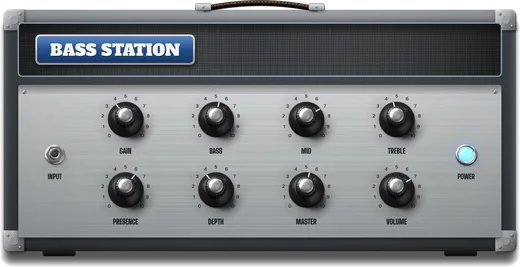
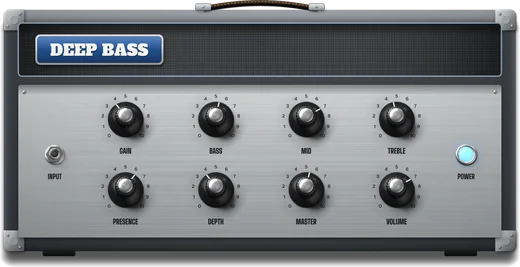
Rename Bass Station, Metal Box and Chime Top (old names still load)
Claude-Session: https://claude.ai/code/session_01S98bwYnjA36tYr2VHe11xa

Changed region(s): [[0.0923, 0.1199, 0.4, 0.2697]]

diff --git a/site/index.html b/site/index.html
@@ -167,7 +167,7 @@
       <li><img src="img/gear/drive-3.webp" width="623" height="841" loading="lazy" decoding="async" alt="Blues Crunch, overdrive pedal"><b>Blues Crunch</b></li>
       <li><img src="img/gear/drive-4.webp" width="670" height="834" loading="lazy" decoding="async" alt="Grit, distortion pedal"><b>Grit</b></li>
       <li><img src="img/gear/drive-5.webp" width="758" height="840" loading="lazy" decoding="async" alt="Big Fuzz, fuzz pedal"><b>Big Fuzz</b></li>
-      <li><img src="img/gear/drive-6.webp" width="666" height="834" loading="lazy" decoding="async" alt="Metal Box, distortion pedal"><b>Metal Box</b></li>
+      <li><img src="img/gear/drive-6.webp" width="666" height="834" loading="lazy" decoding="async" alt="Metal Dist, distortion pedal"><b>Metal Dist</b></li>
       <li><img src="img/gear/eq-0.webp" width="893" height="839" loading="lazy" decoding="async" alt="Graphic EQ, equaliser pedal"><b>Graphic EQ</b></li>
       <li><img src="img/gear/mod-0.webp" width="623" height="841" loading="lazy" decoding="async" alt="Liquid Chorus, chorus pedal"><b>Liquid Chorus</b></li>
       <li><img src="img/gear/mod-1.webp" width="619" height="840" loading="lazy" decoding="async" alt="Jet Flanger, flanger pedal"><b>Jet Flanger</b></li>
@@ -193,13 +193,13 @@
     <ul class="amp-row" data-reveal="pop">
       <li><img src="img/gear/amp-0-s.webp" width="520" height="209" loading="lazy" decoding="async" alt="Glass Clean amp"><b>Glass Clean</b></li>
       <li><img src="img/gear/amp-1-s.webp" width="520" height="315" loading="lazy" decoding="async" alt="Tweed Edge amp"><b>Tweed Edge</b></li>
-      <li><img src="img/gear/amp-2-s.webp" width="520" height="222" loading="lazy" decoding="async" alt="Chime Top amp"><b>Chime Top</b></li>
+      <li><img src="img/gear/amp-2-s.webp" width="520" height="222" loading="lazy" decoding="async" alt="Chime Bright amp"><b>Chime Bright</b></li>
       <li><img src="img/gear/amp-3-s.webp" width="520" height="209" loading="lazy" decoding="async" alt="Brit 68 amp"><b>Brit 68</b></li>
       <li><img src="img/gear/amp-4-s.webp" width="520" height="209" loading="lazy" decoding="async" alt="Brit 81 amp"><b>Brit 81</b></li>
       <li><img src="img/gear/amp-5-s.webp" width="520" height="248" loading="lazy" decoding="async" alt="Redline Lead amp"><b>Redline Lead</b></li>
       <li><img src="img/gear/amp-6-s.webp" width="520" height="209" loading="lazy" decoding="async" alt="Modern High Gain amp"><b>Modern High Gain</b></li>
       <li><img src="img/gear/amp-7-s.webp" width="520" height="200" loading="lazy" decoding="async" alt="Tight Metal amp"><b>Tight Metal</b></li>
-      <li><img src="img/gear/amp-8-s.webp" width="520" height="267" loading="lazy" decoding="async" alt="Bass Station amp"><b>Bass Station</b></li>
+      <li><img src="img/gear/amp-8-s.webp" width="520" height="267" loading="lazy" decoding="async" alt="Deep Bass amp"><b>Deep Bass</b></li>
       <li><img src="img/gear/amp-9-s.webp" width="520" height="202" loading="lazy" decoding="async" alt="Studio Direct amp"><b>Studio Direct</b></li>
       <li><img src="img/gear/amp-10-s.webp" width="520" height="202" loading="lazy" decoding="async" alt="Neural Capture amp"><b>Neural Capture</b></li>
       <li class="rail-own"><b>Twelve cabinets</b><p>Each with a microphone you can move across the cone.</p></li>

diff --git a/site/roadmap.html b/site/roadmap.html
@@ -71,7 +71,7 @@
       <li><h3>Four new 4x12 cabinets</h3><p>Recorded from real ones. Twelve in all.</p></li>
       <li><h3>A gate that sets itself</h3><p>Auto closes just above your hiss.</p></li>
       <li><h3>The gate, saved per tone</h3><p>Off in one tone, on in the next.</p></li>
-      <li><h3>Brighter cleans</h3><p>Glass Clean and Chime Top get more top end.</p></li>
+      <li><h3>Brighter cleans</h3><p>Glass Clean and Chime Bright get more top end.</p></li>
       <li><h3>Setup on USB guitar cables</h3><p>It keeps the mode that hears your guitar best.</p></li>
       <li><h3>A Feedback button</h3><p>Tell us what sounds wrong.</p></li>
       <li><h3>Every tone level-matched</h3><p>All 197, again.</p></li>

diff --git a/tools/make_presets.py b/tools/make_presets.py
@@ -17,12 +17,12 @@ import json, os, re, sys
 HERE = os.path.dirname(os.path.abspath(__file__))
 OUT = os.path.join(HERE, "..", "presets")
 
-AMPS = ["Glass Clean", "Tweed Edge", "Chime Top", "Brit 68", "Brit 81", "Redline Lead",
-        "Modern High Gain", "Tight Metal", "Bass Station", "Studio Direct", "Neural Capture"]
+AMPS = ["Glass Clean", "Tweed Edge", "Chime Bright", "Brit 68", "Brit 81", "Redline Lead",
+        "Modern High Gain", "Tight Metal", "Deep Bass", "Studio Direct", "Neural Capture"]
 CABS = ["1x12 Open Back", "2x12 Chime", "4x12 Vintage", "4x12 Modern", "2x12 American",
         "1x8 Tiny Combo", "4x10 Bass", "1x15 Bass", "Your IR",
         "4x12 Real Classic", "4x12 Real Heavy", "4x12 Real Tight", "4x12 Real Presence"]
-DRIVES = ["Clean Boost", "Treble Boost", "Green Drive", "Blues Crunch", "Grit Dist", "Big Fuzz", "Metal Box"]
+DRIVES = ["Clean Boost", "Treble Boost", "Green Drive", "Blues Crunch", "Grit Dist", "Big Fuzz", "Metal Dist"]
 
 def A(model, gain=5, bass=5, mid=5, treble=5, presence=5, depth=5, master=5, level=0.0):
     assert model in AMPS, model
@@ -102,7 +102,7 @@ P("Bedroom Lo-Fi", "Essentials", ["Lo-Fi", "Bedroom Pop"], "Wobbly, warm and dus
 P("Ambient Wash", "Essentials", ["Ambient", "Post-Rock"], "Clean notes become clouds.",
   A("Glass Clean", 3.5, 5, 5, 5.5), C("2x12 American", 4, 3), DLY("Ping Pong", 450, "1/4 dotted", 5, 5, 3.5), REV("Shimmer", 6, 40, 6, 4.5), G(-72))
 P("Bass Basics", "Essentials", ["Bass", "Rock", "Pop"], "A solid, round bass tone that sits in a mix.",
-  A("Bass Station", 4, 6, 5, 5), C("4x10 Bass", 3, 2, 30, 9000), COMP(5, 4), NOREV(), G(-70))
+  A("Deep Bass", 4, 6, 5, 5), C("4x10 Bass", 3, 2, 30, 9000), COMP(5, 4), NOREV(), G(-70))
 P("Plain DI (No Effects)", "Essentials", ["Utility"], "Your guitar with only the noise gate and hum filter. Useful for recording a clean track to re-amp later.",
   dict(amp_on=False, cab_on=False), NOREV(), G(-70))
 
@@ -122,9 +122,9 @@ P("Country Pickin'", "Clean", ["Country"], "Twangy and compressed with a slapbac
 P("Chorus Dreams", "Clean", ["80s", "New Wave", "Pop"], "Lush 80s chorus clean.",
   A("Glass Clean", 4, 5, 4.5, 6, 5.5), C("2x12 American", 3, 2), COMP(4, 5), MOD("Chorus", 3.5, 6, 7), DLY("Digital", 380, "Off", 3, 6, 2), REV("Hall", 5, 25, 5, 2.4), G(-70), double=3)
 P("Worship Swells", "Clean", ["Worship", "Ambient"], "Dotted-eighth delay and big hall for building songs.",
-  A("Chime Top", 3.5, 5, 5, 5.5, 5), C("2x12 Chime", 3, 2), COMP(3, 6), DLY("Digital", 400, "1/8 dotted", 4.5, 6, 3.5), REV("Hall", 6, 30, 5.5, 3.2), G(-70))
+  A("Chime Bright", 3.5, 5, 5, 5.5, 5), C("2x12 Chime", 3, 2), COMP(3, 6), DLY("Digital", 400, "1/8 dotted", 4.5, 6, 3.5), REV("Hall", 6, 30, 5.5, 3.2), G(-70))
 P("Chime Jangle", "Clean", ["Jangle Pop", "Indie", "Britpop"], "Shimmery, jangly chords.",
-  A("Chime Top", 4.5, 4.5, 5, 6.5, 6), C("2x12 Chime", 2.5, 2), COMP(4, 5), REV("Room", 4, 12, 6, 2), G(-68))
+  A("Chime Bright", 4.5, 4.5, 5, 6.5, 6), C("2x12 Chime", 2.5, 2), COMP(4, 5), REV("Room", 4, 12, 6, 2), G(-68))
 P("Clean Arpeggio Space", "Clean", ["Post-Rock", "Math Rock"], "Clear and detailed with stereo delay for arpeggios.",
   A("Glass Clean", 3.5, 5, 5, 6, 5.5), C("2x12 American", 3, 2), COMP(3, 6), DLY("Ping Pong", 350, "1/8", 3.5, 6, 2.5), REV("Plate", 4, 15, 5.5, 2.3), G(-72))
 P("Tremolo Noir", "Clean", ["Blues", "Cinematic", "Indie"], "Moody pulsing tremolo through a spring.",
@@ -136,7 +136,7 @@ P("Tweed Breakup", "Crunch", ["Blues", "Classic Rock", "Americana"], "Loose, hai
 P("Classic Rock Crunch", "Crunch", ["Classic Rock", "Hard Rock"], "Open chords and big riffs, 70s style.",
   A("Brit 68", 7, 5, 6.5, 6, 5.5), C("4x12 Vintage", 3, 2), REV("Room", 3, 8, 5, 1.4), G(-62))
 P("British Invasion", "Crunch", ["60s", "Britpop", "Rock"], "Chimey, raspy amp-pushed crunch.",
-  A("Chime Top", 7, 4.5, 5, 6.5, 6), C("2x12 Chime", 3, 2), REV("Room", 3, 8, 5, 1.5), G(-64))
+  A("Chime Bright", 7, 4.5, 5, 6.5, 6), C("2x12 Chime", 3, 2), REV("Room", 3, 8, 5, 1.5), G(-64))
 P("Indie Garage", "Crunch", ["Indie", "Garage Rock"], "Raw, loud, a little messy, in a good way.",
   A("Tweed Edge", 7.5, 5, 6, 6), C("2x12 Chime", 3.5, 2.5), D("Blues Crunch", 5, 5.5, 5), REV("Room", 3, 5, 5, 1.2), G(-62))
 P("Pop Punk Power", "Rock", ["Pop Punk", "Punk"], "Bright, tight and loud power chords.",
@@ -152,7 +152,7 @@ P("Stoner Doom", "Rock", ["Stoner Rock", "Doom", "Sludge"], "Huge, fuzzy and slo
 P("Shoegaze Haze", "Rock", ["Shoegaze", "Dream Pop"], "A wall of fuzz, vibrato and reverb.",
   A("Tweed Edge", 6, 5, 5, 5), C("2x12 Chime", 4.5, 3), D("Big Fuzz", 6, 5, 4.5), MOD("Vibrato", 2.5, 4, 4), REV("Cloud", 5, 40, 4.5, 4.5), G(-60), double=5)
 P("Post-Rock Crescendo", "Rock", ["Post-Rock"], "From quiet to huge: drive, delay and a giant hall.",
-  A("Chime Top", 6, 5, 5, 6), C("2x12 Chime", 3, 2), D("Blues Crunch", 5, 5, 5), DLY("Digital", 450, "1/4 dotted", 5, 5.5, 3.5), REV("Hall", 7.5, 40, 5, 3.5), G(-62))
+  A("Chime Bright", 6, 5, 5, 6), C("2x12 Chime", 3, 2), D("Blues Crunch", 5, 5, 5), DLY("Digital", 450, "1/4 dotted", 5, 5.5, 3.5), REV("Hall", 7.5, 40, 5, 3.5), G(-62))
 P("Garage Fuzz", "Rock", ["Garage Rock", "Blues Rock"], "Gnarly fuzz straight into a cranked combo.",
   A("Tweed Edge", 5, 5, 5, 5.5), C("1x12 Open Back", 3.5, 2), D("Big Fuzz", 8, 6, 4.5), G(-60), REV("Room", 2.5, 5, 5, 1))
 
@@ -174,7 +174,7 @@ P("Djent Precision", "Metal", ["Djent", "Progressive Metal"], "Ultra tight with 
 P("Metalcore Breakdown", "Metal", ["Metalcore", "Deathcore"], "Heavy, punchy and gated for breakdowns.",
   A("Tight Metal", 7, 6, 5, 6, 6.5, 7), C("4x12 Real Tight", 3, 1.5), D("Green Drive", 0.5, 6, 7), G(-48, 35), NOREV(), double=7)
 P("Death Metal Buzz", "Metal", ["Death Metal"], "Saw-toothed and brutal.",
-  A("Modern High Gain", 7, 6, 4, 6.5, 6), C("4x12 Real Heavy", 2.5, 1.5), D("Metal Box", 6, 6, 5), G(-50, 40), NOREV())
+  A("Modern High Gain", 7, 6, 4, 6.5, 6), C("4x12 Real Heavy", 2.5, 1.5), D("Metal Dist", 6, 6, 5), G(-50, 40), NOREV())
 P("Black Metal Frost", "Metal", ["Black Metal"], "Thin, cold and trebly with a dark hall.",
   A("Brit 81", 8.5, 3.5, 4.5, 7.5, 7, 3), C("4x12 Real Classic", 2, 2), G(-54), REV("Hall", 6, 30, 3.5, 2.5))
 P("Nu-Metal Bounce", "Metal", ["Nu-Metal"], "Fat, scooped and bouncy. Tune way down.",
@@ -249,23 +249,23 @@ P("VHS Sunset", "Lo-Fi", ["Synthwave", "Lo-Fi"], "Retro, chorused, tape-worn.",
 
 # ---------------------------------------------------------------- Bass
 P("Rock Bass Grind", "Bass", ["Bass", "Rock"], "Gritty, punchy rock bass.",
-  A("Bass Station", 6.5, 6, 6, 5.5), C("4x10 Bass", 3, 2, 30, 9000), COMP(5, 4), NOREV(), G(-66))
+  A("Deep Bass", 6.5, 6, 6, 5.5), C("4x10 Bass", 3, 2, 30, 9000), COMP(5, 4), NOREV(), G(-66))
 P("Funk Slap Bass", "Bass", ["Bass", "Funk"], "Scooped and snappy for slap.",
-  A("Bass Station", 4, 7, 3.5, 7), C("4x10 Bass", 2.5, 1.5, 30, 12000), COMP(7, 2), NOREV(), G(-70))
+  A("Deep Bass", 4, 7, 3.5, 7), C("4x10 Bass", 2.5, 1.5, 30, 12000), COMP(7, 2), NOREV(), G(-70))
 P("Motown Bass", "Bass", ["Bass", "Soul", "Motown"], "Deep, thumpy, old-school.",
-  A("Bass Station", 3.5, 6.5, 5, 3), C("1x15 Bass", 4, 2.5, 30, 5000), COMP(4, 5), NOREV(), G(-72))
+  A("Deep Bass", 3.5, 6.5, 5, 3), C("1x15 Bass", 4, 2.5, 30, 5000), COMP(4, 5), NOREV(), G(-72))
 P("Metal Bass", "Bass", ["Bass", "Metal"], "Clanky, driven bass that cuts through guitars.",
-  A("Bass Station", 7, 6, 6.5, 6.5), C("4x10 Bass", 2.5, 1.5, 35, 10000), D("Metal Box", 3, 6, 5), COMP(5, 4), G(-60), NOREV())
+  A("Deep Bass", 7, 6, 6.5, 6.5), C("4x10 Bass", 2.5, 1.5, 35, 10000), D("Metal Dist", 3, 6, 5), COMP(5, 4), G(-60), NOREV())
 P("Fuzz Bass", "Bass", ["Bass", "Stoner Rock"], "Fuzzed-out bass with clean lows underneath.",
-  A("Bass Station", 5, 6, 5, 5), C("4x10 Bass", 3, 2, 30, 9000), D("Big Fuzz", 6, 5, 4), G(-62), NOREV())
+  A("Deep Bass", 5, 6, 5, 5), C("4x10 Bass", 3, 2, 30, 9000), D("Big Fuzz", 6, 5, 4), G(-62), NOREV())
 P("Synth Bass Octave", "Bass", ["Bass", "Electronic"], "Sub-octave synth-like bass.",
-  A("Bass Station", 4, 6, 5, 5), C("1x15 Bass", 3.5, 2, 30, 6000), PITCH("Sub Octave", -12, 6), COMP(6, 4), G(-64), NOREV())
+  A("Deep Bass", 4, 6, 5, 5), C("1x15 Bass", 3.5, 2, 30, 6000), PITCH("Sub Octave", -12, 6), COMP(6, 4), G(-64), NOREV())
 
 # ---------------------------------------------------------------- Desi / Indian
 P("Filmi Rock Lead", "Rock", ["Bollywood", "Filmi Rock"], "Big, melodic lead for Bollywood rock songs.",
   A("Redline Lead", 6.5, 5, 6.5, 5.5), C("4x12 Real Classic", 3.5, 2), DLY("Digital", 420, "Off", 3.5, 5.5, 2.8), REV("Hall", 5, 25, 5, 2.2), G(-60))
 P("Desi Indie Strum", "Clean", ["Desi Indie", "Indie"], "Warm, open strumming tone for indie songs.",
-  A("Chime Top", 3.5, 5.5, 5, 5), C("1x12 Open Back", 4, 2.5), COMP(4, 5), REV("Room", 4, 12, 4.5, 2.2), G(-70))
+  A("Chime Bright", 3.5, 5.5, 5, 5), C("1x12 Open Back", 4, 2.5), COMP(4, 5), REV("Room", 4, 12, 4.5, 2.2), G(-70))
 P("Sufi Rock Drive", "Rock", ["Sufi Rock", "Fusion"], "Soaring overdriven tone for melodic fusion lines.",
   A("Brit 68", 6.5, 5, 6.5, 5.5), C("4x12 Vintage", 3.5, 2), D("Green Drive", 2.5, 5.5, 6.5), DLY("Analog", 450, "Off", 3, 4.5, 2.2), REV("Hall", 5, 25, 5, 2), G(-62))
 P("Raga Drone Pad", "Ambient", ["Indian Classical Fusion", "Ambient"], "Sustained, shimmering pad for drones and slides.",
@@ -277,11 +277,11 @@ P("Bangalore Thrash", "Metal", ["Indian Metal", "Thrash"], "Fast, dry thrash rhy
 P("Shillong Blues Rock", "Blues", ["Indian Blues", "Blues Rock"], "Warm, singing blues-rock crunch that cleans up when you play softly.",
   A("Tweed Edge", 6.5, 5, 6, 5.5), C("1x12 Open Back", 3.5, 2), D("Green Drive", 3, 5, 6), REV("Spring", 4, 8, 5, 1.8), G(-64))
 P("Bangla Band Jangle", "Crunch", ["Bangla Rock", "Indian Rock"], "Bright, jangly edge-of-breakup strum for band songs with big choruses.",
-  A("Chime Top", 5.5, 4.5, 5.5, 6), C("2x12 Chime", 3, 2), COMP(4, 5), MOD("Chorus", 2, 3, 2.5), REV("Room", 4, 12, 5, 2), G(-66))
+  A("Chime Bright", 5.5, 4.5, 5.5, 6), C("2x12 Chime", 3, 2), COMP(4, 5), MOD("Chorus", 2, 3, 2.5), REV("Room", 4, 12, 5, 2), G(-66))
 P("Carnatic Prog Lead", "Lead", ["Indian Prog", "Carnatic Fusion"], "Smooth, articulate lead for fast gamakas and slides, with a short echo.",
   A("Redline Lead", 6.5, 5, 6.5, 5.5, 5.5), C("4x12 Real Classic", 3.5, 2), D("Clean Boost", 3, 5, 6), DLY("Digital", 320, "Off", 2.5, 5, 1.8), REV("Plate", 4, 15, 5, 1.6), G(-60))
 P("Desi Djent", "Metal", ["Indian Prog Metal", "Djent"], "Tight, percussive low-tuned chug with a boosted front end and clear chords on top.",
-  A("Tight Metal", 7, 6, 5, 6.5, 6, 6.5), C("4x12 Real Tight", 2.5, 1.5), D("Metal Box", 1, 5.5, 5), G(-54, 45), NOREV(), double=6)
+  A("Tight Metal", 7, 6, 5, 6.5, 6, 6.5), C("4x12 Real Tight", 2.5, 1.5), D("Metal Dist", 1, 5.5, 5), G(-54, 45), NOREV(), double=6)
 P("Post-Rock Swells", "Ambient", ["Indian Post-Rock", "Post-Rock"], "Clean, wide and long for tremolo-picked builds and swelling chords.",
   A("Glass Clean", 4, 5, 5, 5.5), C("2x12 American", 3.5, 2.5), COMP(4, 6), DLY("Tape", 480, "Off", 4.5, 4.5, 3), REV("Cloud", 7, 30, 5, 4), G(-72))
 P("Bedroom Indie Clean", "Clean", ["Desi Indie", "Bedroom Pop"], "Soft, rounded clean with a slow chorus, for quiet songs recorded at home.",
@@ -314,7 +314,7 @@ P("Prog Fuzz Lead", "Lead", ["Progressive Rock", "Classic Rock"], "Sustaining fu
 P("Prog Chorus Clean", "Clean", ["Progressive Rock"], "Compressed, chorused clean with delay.",
   A("Glass Clean", 4, 5, 5, 6), C("2x12 American", 3, 2), COMP(5, 5), MOD("Chorus", 2, 4, 4), DLY("Analog", 440, "Off", 3.5, 5, 2.5), REV("Hall", 5, 25, 5, 2.2), G(-70))
 P("Treble Chime Lead", "Lead", ["Classic Rock", "Arena Rock"], "Treble-boosted chime amp at full tilt.",
-  A("Chime Top", 7.5, 5, 6, 6), C("2x12 Chime", 3, 2), D("Treble Boost", 6, 5, 5.5), DLY("Digital", 400, "Off", 3, 5, 2.4), REV("Hall", 4, 20, 5, 1.8), G(-62))
+  A("Chime Bright", 7.5, 5, 6, 6), C("2x12 Chime", 3, 2), D("Treble Boost", 6, 5, 5.5), DLY("Digital", 400, "Off", 3, 5, 2.4), REV("Hall", 4, 20, 5, 1.8), G(-62))
 P("Raw Tweed Swagger", "Crunch", ["Rock and Roll", "Classic Rock"], "Loose, raw tweed breakup.",
   A("Tweed Edge", 6, 5, 5.5, 5.5), C("1x12 Open Back", 3.5, 2.5), REV("Room", 3, 5, 5, 1.4), G(-64))
 P("Open Power Chords", "Rock", ["Classic Rock", "Mod"], "Loud, open British power chords.",
@@ -334,7 +334,7 @@ P("Doom Treble Boost", "Metal", ["Heavy Metal", "Doom"], "Treble booster into a 
 P("Neo-Classical Lead", "Metal", ["Heavy Metal", "Neo-Classical"], "Boosted British lead with a hint of chorus.",
   A("Brit 81", 7.5, 5, 6.5, 6), C("4x12 Real Classic", 3, 2), D("Green Drive", 2, 5.5, 7), MOD("Chorus", 3, 2.5, 2.5), DLY("Analog", 380, "Off", 2.5, 4.5, 1.8), G(-58))
 P("Pinch Harmonic Rhythm", "Metal", ["Heavy Metal"], "Big, mid-boosted squealing rhythm.",
-  A("Brit 81", 7.5, 6, 7, 6, 6), C("4x12 Real Classic", 3, 2), D("Metal Box", 2, 5, 7), G(-56), REV("Room", 2.5, 5, 5, 0.8))
+  A("Brit 81", 7.5, 6, 7, 6, 6), C("4x12 Real Classic", 3, 2), D("Metal Dist", 2, 5, 7), G(-56), REV("Room", 2.5, 5, 5, 0.8))
 P("Auto-Wah Metal Solo", "Metal", ["Thrash", "Heavy Metal"], "Scooped high gain with an auto-wah for solos.",
   A("Modern High Gain", 7, 6, 4, 6.5, 6.5), C("4x12 Real Heavy", 3, 2), WAH("Auto", 5, 7, 6), DLY("Digital", 380, "Off", 2.5, 5, 2), G(-56))
 P("Downpicked Thrash", "Metal", ["Thrash", "Heavy Metal"], "Scooped, tight, crushing rhythm.",
@@ -346,7 +346,7 @@ P("Octave-Up Crunch", "Metal", ["Rap Metal", "Alternative"], "Tight British crun
 P("Fast Buzzy Thrash", "Metal", ["Thrash"], "Fast, buzzy, aggressive thrash.",
   A("Modern High Gain", 8, 6, 4.5, 7, 7), C("4x12 Real Heavy", 2.5, 1.5), G(-52, 40), NOREV())
 P("Downtuned Grind Groove", "Metal", ["Groove Metal", "Thrash"], "Downtuned, fat, grinding rhythm.",
-  A("Modern High Gain", 6.5, 7, 4, 5.5, 5.5, 7), C("4x12 Real Heavy", 3, 1.5), D("Metal Box", 3, 5, 6), G(-52, 40), NOREV())
+  A("Modern High Gain", 6.5, 7, 4, 5.5, 5.5, 7), C("4x12 Real Heavy", 3, 1.5), D("Metal Dist", 3, 5, 6), G(-52, 40), NOREV())
 P("Melodic Death Lead", "Metal", ["Death Metal"], "Clear, aggressive tone for melodic death metal.",
   A("Modern High Gain", 7, 5.5, 5.5, 6.5, 6.5), C("4x12 Real Heavy", 2.5, 1.5), D("Green Drive", 1, 6, 7), G(-52, 40), REV("Room", 2, 5, 5, 0.6))
 P("Spiral Prog Riff", "Metal", ["Progressive Metal", "Alternative Metal"], "Thick, mid-heavy high gain with a phaser option.",
@@ -388,7 +388,7 @@ P("Fuzz Wall", "Rock", ["Alternative", "Grunge"], "Massive, saturated fuzz wall.
 P("Octave Down Fuzz", "Rock", ["Garage Rock", "Blues Rock"], "Gnarly fuzz plus an octave down for the riff.",
   A("Tweed Edge", 6, 5, 5.5, 5.5), C("4x12 Vintage", 3.5, 2), PITCH("Sub Octave", -12, 6), D("Big Fuzz", 7, 5, 5), G(-58), REV("Room", 2, 5, 5, 0.8))
 P("Dotted Delay Chime", "Clean", ["Rock", "Post-Punk"], "Chiming amp with dotted-eighth delay.",
-  A("Chime Top", 5.5, 4.5, 5, 6.5, 6), C("2x12 Chime", 3, 2), COMP(3, 6), DLY("Digital", 400, "1/8 dotted", 4.5, 7, 4), REV("Hall", 4.5, 20, 6, 2), G(-66))
+  A("Chime Bright", 5.5, 4.5, 5, 6.5, 6), C("2x12 Chime", 3, 2), COMP(3, 6), DLY("Digital", 400, "1/8 dotted", 4.5, 7, 4), REV("Hall", 4.5, 20, 6, 2), G(-66))
 P("Jangle Chorus", "Clean", ["Indie", "Post-Punk"], "Sparkling, chorused arpeggios.",
   A("Glass Clean", 4.5, 4.5, 5, 6.5, 6), C("2x12 American", 2.5, 2), COMP(4, 5), MOD("Chorus", 3, 5, 6), REV("Room", 3.5, 10, 5.5, 2), G(-68), double=4)
 P("Cold Flanger", "Clean", ["Post-Punk", "Goth", "New Wave"], "Icy chorus-flange clean with a hall.",
@@ -448,11 +448,11 @@ P("Chicken Scratch Funk", "Funk", ["Funk", "Soul"], "Thin, bright, percussive fu
 
 # Country / roots / jazz / surf
 P("Chicken Pickin'", "Crunch", ["Country"], "Snappy, compressed, a little hot.",
-  A("Chime Top", 5, 4.5, 5, 6.5, 6), C("2x12 Chime", 2.5, 2), COMP(6, 3), DLY("Analog", 300, "Off", 2, 5, 1.8), G(-66))
+  A("Chime Bright", 5, 4.5, 5, 6.5, 6), C("2x12 Chime", 2.5, 2), COMP(6, 3), DLY("Analog", 300, "Off", 2, 5, 1.8), G(-66))
 P("Nashville Session", "Clean", ["Country"], "Glassy, compressed, studio clean.",
   A("Glass Clean", 4.5, 4.5, 5, 6.5, 6), C("2x12 American", 2.5, 2), COMP(6, 3), REV("Room", 3, 8, 5.5, 1.4), G(-68))
 P("Country Rock Drive", "Rock", ["Country Rock"], "Bright overdrive for modern country.",
-  A("Chime Top", 6, 4.5, 5, 6.5, 6), C("2x12 Chime", 3, 2), D("Blues Crunch", 3, 5.5, 6), DLY("Digital", 380, "Off", 2.5, 6, 2), G(-64))
+  A("Chime Bright", 6, 4.5, 5, 6.5, 6), C("2x12 Chime", 3, 2), D("Blues Crunch", 3, 5.5, 6), DLY("Digital", 380, "Off", 2.5, 6, 2), G(-64))
 P("Thumb Jazz", "Blues", ["Jazz"], "Dark, warm, thumb-picked jazz.",
   A("Glass Clean", 3, 6.5, 5.5, 2.5, 3.5), C("1x12 Open Back", 6, 3, 60, 5500), REV("Room", 3, 10, 3.5, 1.2), G(-74))
 P("Lyrical Chorus", "Lead", ["Jazz Fusion"], "Warm, chorused, delayed jazz lead.",
@@ -462,7 +462,7 @@ P("Surf Tremolo Picking", "Crunch", ["Surf"], "Loud, bright, soaked in spring.",
 
 # Ambient / post-rock
 P("Crescendo Tremolo", "Ambient", ["Post-Rock"], "Shimmering tremolo picking with a huge hall.",
-  A("Chime Top", 5, 5, 5, 6), C("2x12 Chime", 3, 2), DLY("Digital", 400, "1/4 dotted", 4, 6, 3), REV("Hall", 7.5, 40, 5.5, 3.5), G(-66))
+  A("Chime Bright", 5, 5, 5, 6), C("2x12 Chime", 3, 2), DLY("Digital", 400, "1/4 dotted", 4, 6, 3), REV("Hall", 7.5, 40, 5.5, 3.5), G(-66))
 P("Glacial Wash", "Ambient", ["Post-Rock", "Ambient"], "Endless, glacial reverb wash.",
   A("Tweed Edge", 5, 5, 5, 5), C("2x12 Chime", 4, 3), D("Big Fuzz", 4, 4, 4), REV("Cloud", 8, 60, 4.5, 6), G(-62))
 
@@ -482,23 +482,23 @@ P("Fusion Groove", "Crunch", ["Indian Fusion", "Folk Rock"], "Earthy, slightly d
 P("Indian Classic Rock", "Crunch", ["Indian Rock", "Classic Rock"], "Big, melodic classic-rock crunch.",
   A("Brit 81", 6, 5, 6.5, 5.5), C("4x12 Real Classic", 3, 2), DLY("Analog", 420, "Off", 2.5, 5, 2), REV("Hall", 4, 20, 5, 1.8), G(-60))
 P("Folk Strum Energy", "Clean", ["Indian Folk", "Folk Rock"], "Bright, bouncy strumming tone.",
-  A("Chime Top", 4.5, 5, 5, 6), C("2x12 Chime", 3, 2), COMP(4, 5), REV("Room", 3.5, 10, 5, 2), G(-68))
+  A("Chime Bright", 4.5, 5, 5, 6), C("2x12 Chime", 3, 2), COMP(4, 5), REV("Room", 3.5, 10, 5, 2), G(-68))
 P("Sunny Indie Pop", "Clean", ["Desi Indie", "Indie Pop"], "Bright, happy, chorused clean.",
   A("Glass Clean", 4, 5, 5, 6, 5.5), C("2x12 American", 3, 2), COMP(4, 5), MOD("Chorus", 2.5, 3, 4), REV("Plate", 4, 15, 5.5, 2.2), G(-70))
 P("Cinematic Swell", "Ambient", ["Bollywood", "Cinematic"], "Lush, wide, cinematic clean-to-lead tone.",
-  A("Chime Top", 5, 5, 5, 5.5), C("2x12 Chime", 3.5, 2.5), COMP(4, 5), DLY("Ping Pong", 450, "Off", 4, 5, 3), REV("Hall", 6.5, 30, 5, 3.2), G(-66), double=4)
+  A("Chime Bright", 5, 5, 5, 5.5), C("2x12 Chime", 3.5, 2.5), COMP(4, 5), DLY("Ping Pong", 450, "Off", 4, 5, 3), REV("Hall", 6.5, 30, 5, 3.2), G(-66), double=4)
 
 # Bass players
 P("Slap Funk Bass", "Bass", ["Bass", "Funk Rock"], "Punchy, bright slap bass.",
-  A("Bass Station", 4.5, 6.5, 4, 7), C("4x10 Bass", 2.5, 1.5, 30, 12000), COMP(7, 2), NOREV(), G(-70))
+  A("Deep Bass", 4.5, 6.5, 4, 7), C("4x10 Bass", 2.5, 1.5, 30, 12000), COMP(7, 2), NOREV(), G(-70))
 P("Fuzz Wah Bass", "Bass", ["Bass", "Thrash"], "Fuzzed bass with a wah, for lead bass lines.",
-  A("Bass Station", 6, 6, 5, 5.5), C("4x10 Bass", 3, 2, 30, 9000), D("Big Fuzz", 6, 5, 5), WAH("Auto", 5, 6, 5), G(-60), NOREV())
+  A("Deep Bass", 6, 6, 5, 5.5), C("4x10 Bass", 3, 2, 30, 9000), D("Big Fuzz", 6, 5, 5), WAH("Auto", 5, 6, 5), G(-60), NOREV())
 P("Prog Bass Growl", "Bass", ["Bass", "Progressive Rock"], "Bright, growly, midrange-y bass.",
-  A("Bass Station", 6, 5.5, 6.5, 6.5), C("4x10 Bass", 2.5, 2, 30, 11000), COMP(5, 4), NOREV(), G(-66))
+  A("Deep Bass", 6, 5.5, 6.5, 6.5), C("4x10 Bass", 2.5, 2, 30, 11000), COMP(5, 4), NOREV(), G(-66))
 P("Earthy Fusion Bass", "Bass", ["Bass", "Indian Fusion"], "Warm, woody, round bass.",
-  A("Bass Station", 4, 6.5, 5.5, 4), C("1x15 Bass", 4, 2.5, 30, 6000), COMP(4, 5), NOREV(), G(-70))
+  A("Deep Bass", 4, 6.5, 5.5, 4), C("1x15 Bass", 4, 2.5, 30, 6000), COMP(4, 5), NOREV(), G(-70))
 P("Old-School Thump", "Bass", ["Bass", "Motown", "Soul"], "Deep, dark, thumpy old-school bass.",
-  A("Bass Station", 3.5, 7, 5, 2.5), C("1x15 Bass", 4.5, 2.5, 30, 4500), COMP(4, 5), NOREV(), G(-72))
+  A("Deep Bass", 3.5, 7, 5, 2.5), C("1x15 Bass", 4.5, 2.5, 30, 4500), COMP(4, 5), NOREV(), G(-72))
 
 
 # ---------------------------------------------------------------- Songs players asked for

diff --git a/src/ui/Gear.cpp b/src/ui/Gear.cpp
@@ -361,7 +361,7 @@ namespace
         g.setColour (ink);
         g.drawText (text, area, j, false);
     }
-    juce::String titled (const juce::String& s) // "bass station" becomes "Bass Station"
+    juce::String titled (const juce::String& s) // "deep bass" becomes "Deep Bass"
     {
         juce::StringArray words;
         words.addTokens (s.toLowerCase(), " ", "");
@@ -381,7 +381,7 @@ const PedalDesign& drivePedalDesign (int t)
         { "blues crunch", "low gain", 0xff1d4f9a, 0xffe9eef5, 0xff7fc4ff, Finish::sparkle,    KnobStyle::dome,    0xff1b1e24, Face::script, false, 1.0f,  0, 1, 0 },
         { "GRIT", "distortion", 0xff1c1d1e, 0xfff2f0e8, 0xffffb547, Finish::crinkle,    KnobStyle::pedal,   0xfff2f0e8, Face::shoulders,      true,  1.0f,  0, 2, 0 },
         { "big fuzz", "sustainer", 0xffe6dbc0, 0xff3b2a1a, 0xffffb547, Finish::enamel,     KnobStyle::skirted, 0xff1e1a16, Face::shoulders,      false, 1.28f, 3, 3, 2 },
-        { "METAL BOX", "high gain", 0xff34373b, 0xfff4a524, 0xfff3f3ee, Finish::crinkle,    KnobStyle::skirted, 0xff101112, Face::shoulders,      true,  1.0f,  2, 0, 0 },
+        { "METAL DIST", "high gain", 0xff34373b, 0xfff4a524, 0xfff3f3ee, Finish::crinkle,    KnobStyle::skirted, 0xff101112, Face::shoulders,      true,  1.0f,  2, 0, 0 },
     };
     return d[juce::jlimit (0, (int) std::size (d) - 1, t)];
 }
@@ -455,7 +455,7 @@ const AmpDesign& ampDesign (int m)
         { "MODERN",    Tolex::levant, 0xff101010, Panel::plate,    0xffe9e7e2, Weave::mesh,       0,          KnobStyle::skirted, 0xff101112, 0xff7dffa0, Face::shoulders,      true,  true,  false, 1, 2, 1, 1.0f },
         { "TIGHT",     Tolex::smooth, 0xff0d0d0e, Panel::anodised, 0xfff4a524, Weave::mesh,       0,          KnobStyle::pedal,   0xfff4a524, 0xfff4a524, Face::shoulders,      false, true,  false, 3, 3, 2, 0.84f,
           { "GAIN", "LOW", "MID", "HIGH", "PRES", "DEEP", "MASTER", "OUT" }, { 0, 1, 2, 3, 4, 5, 6, 7 }, 0x30 },
-        { "bass station", Tolex::levant, 0xff1d2530, Panel::brushed, 0xff141618, Weave::grid,     0xff8fa3b8, KnobStyle::skirted, 0xff141618, 0xff6fb7ff, Face::shoulders,      true,  true,  false, 4, 0, 0, 0.78f },
+        { "deep bass", Tolex::levant, 0xff1d2530, Panel::brushed, 0xff141618, Weave::grid,     0xff8fa3b8, KnobStyle::skirted, 0xff141618, 0xff6fb7ff, Face::shoulders,      true,  true,  false, 4, 0, 0, 0.78f },
         { "studio direct", Tolex::smooth, 0xff1a1b1d, Panel::brushed, 0xff141618, Weave::none,    0,          KnobStyle::dome,    0xff141618, 0xff7dffa0, Face::instrumentSemi, false, false, true,  5, 2, 2, 1.0f },
         { "capture",   Tolex::smooth, 0xff141518, Panel::anodised, 0xffe9e7e2, Weave::none,       0,          KnobStyle::modern,  0xffe9e7e2, 0xffff9f1c, Face::instrumentSemi, false, false, true,  5, 0, 1, 1.0f },
     };
@@ -1729,7 +1729,7 @@ namespace
         if (b == "redline")      return Logo::pennant;
         if (b == "MODERN")       return Logo::milled;
         if (b == "TIGHT")        return Logo::printed;
-        if (b == "bass station") return Logo::enamel;
+        if (b == "deep bass") return Logo::enamel;
         return Logo::plate;
     }
 

diff --git a/tools/site/build_assets.py b/tools/site/build_assets.py
@@ -24,7 +24,7 @@ PEDALS = [
     ("wah-0", "Funk Filter", "Wah and envelope filter"), ("wah-2", "Throat", "Classic 60s wah"), ("pitch-0", "Deep Octave", "Octave and pitch"),
     ("drive-0", "Clean Boost", "Boost"), ("drive-1", "Treble Booster", "Boost"),
     ("drive-2", "Green Drive", "Overdrive"), ("drive-3", "Blues Crunch", "Overdrive"),
-    ("drive-4", "Grit", "Distortion"), ("drive-5", "Big Fuzz", "Fuzz"), ("drive-6", "Metal Box", "Distortion"),
+    ("drive-4", "Grit", "Distortion"), ("drive-5", "Big Fuzz", "Fuzz"), ("drive-6", "Metal Dist", "Distortion"),
     ("eq-0", "Graphic EQ", "Equaliser"),
     ("mod-0", "Liquid Chorus", "Chorus"), ("mod-1", "Jet Flanger", "Flanger"), ("mod-2", "Phase Four", "Phaser"),
     ("mod-3", "Tremble", "Tremolo"), ("mod-4", "Warble", "Vibrato"), ("mod-5", "Rotary Vibe", "Vibe"),
@@ -34,8 +34,8 @@ PEDALS = [
     ("reverb-3", "Spring Tank", "Reverb"), ("reverb-4", "Shimmer", "Reverb"), ("reverb-5", "Cloud", "Reverb"),
     ("lofi-0", "Dusty Tape", "Lo-fi"),
 ]
-AMPS = ["Glass Clean", "Tweed Edge", "Chime Top", "Brit 68", "Brit 81", "Redline Lead",
-        "Modern High Gain", "Tight Metal", "Bass Station", "Studio Direct", "Neural Capture"]
+AMPS = ["Glass Clean", "Tweed Edge", "Chime Bright", "Brit 68", "Brit 81", "Redline Lead",
+        "Modern High Gain", "Tight Metal", "Deep Bass", "Studio Direct", "Neural Capture"]
 CABS = ["1x12 Open Back", "2x12 Chime", "4x12 Vintage", "4x12 Modern", "2x12 American",
         "1x8 Tiny Combo", "4x10 Bass", "1x15 Bass", "Your IR",
         "4x12 Real Classic", "4x12 Real Heavy", "4x12 Real Tight"]
@@ -43,7 +43,7 @@ CABS = ["1x12 Open Back", "2x12 Chime", "4x12 Vintage", "4x12 Modern", "2x12 Ame
 SLOTS = [  # switch, default on, type key, choices, default choice, cutout prefix
     ("gate_on", True, None, None, 0, "gate"), ("comp_on", False, None, None, 0, "comp"),
     ("wah_on", False, None, None, 0, "wah"), ("pitch_on", False, None, None, 0, "pitch"),
-    ("drv_on", False, "drv_type", ["Clean Boost", "Treble Boost", "Green Drive", "Blues Crunch", "Grit Dist", "Big Fuzz", "Metal Box"], 2, "drive"),
+    ("drv_on", False, "drv_type", ["Clean Boost", "Treble Boost", "Green Drive", "Blues Crunch", "Grit Dist", "Big Fuzz", "Metal Dist"], 2, "drive"),
     ("amp_on", True, "amp_model", AMPS, 3, "amp"), ("cab_on", True, "cab_model", CABS, 2, "cab"),
     ("eq_on", False, None, None, 0, "eq"),
     ("mod_on", False, "mod_type", ["Chorus", "Flanger", "Phaser", "Tremolo", "Vibrato", "Vibe"], 0, "mod"),

diff --git a/src/dsp/Amp.cpp b/src/dsp/Amp.cpp
@@ -10,7 +10,7 @@ namespace
 
     using namespace tonestacks;
 
-    // Glass Clean and Chime Top: top shelf and output bandwidth fitted to captures of a Fender Twin (normal, bright)
+    // Glass Clean and Chime Bright: top shelf and output bandwidth fitted to captures of a Fender Twin (normal, bright)
     // and a Vox AC15 (top boost) on three real guitar takes; they sat 5 to 8 dB darker above 4 kHz (16 Nov).
     // name, inHP, bright, gainMin, gainMax, stages, stageGain[5], stageBias[5], stageHp[5], stageLp[5],
     // baxandall, stack, midHz, powerDrive, powerBias, sag, presenceHz, depthHz, outHp, outLp, trim
@@ -21,7 +21,7 @@ namespace
         { "Tweed Edge", 20.0f, 2.0f, -12.0f, 20.0f, 2,
           { 1, 14, 1, 1, 1 }, { 0.20f, 0.15f, 0, 0, 0 }, { 20, 40, 0, 0, 0 }, { 11250, 8750, 0, 0, 0 },
           false, tweed, 800.0f, 2.2f, 0.05f, 0.45f, 3000.0f, 85.0f, 50.0f, 8000.0f, -5.5f },
-        { "Chime Top", 25.0f, 3.0f, -14.0f, 20.0f, 3,
+        { "Chime Bright", 25.0f, 3.0f, -14.0f, 20.0f, 3,
           { 1, 10, 1.5f, 1, 1 }, { 0.15f, 0.10f, 0.05f, 0, 0 }, { 25, 60, 30, 0, 0 }, { 14000, 12000, 15000, 0, 0 },
           false, chime, 900.0f, 1.8f, 0.18f, 0.30f, 3500.0f, 110.0f, 70.0f, 10000.0f, -4.3f, 250.0f, 0.0f, 2800.0f, 8.0f },
         { "Brit 68", 30.0f, 6.0f, -14.0f, 22.0f, 3,
@@ -43,7 +43,7 @@ namespace
           { 1, 8.3f, 9.6f, 44.5f, 58.3f }, { 0.20f, 0.30f, 0.20f, 0.10f, 0.05f }, { 52, 357, 326, 26, 12 }, { 2610, 6870, 8950, 2600, 16270 },
           false, modern, 650.0f, 1.3f, 0.0f, 0.15f, 3800.0f, 90.0f, 60.0f, 14000.0f, -7.6f, 240.0f, -1.3f, 4500.0f, 4.2f, 100.0f, 9.0f,
           { 40, 610, 230, 500, 490 }, { 3.3f, 3.9f, 5.1f, 4.2f, 3.3f }, 2.0f },
-        { "Bass Station", 15.0f, 0.0f, -10.0f, 18.0f, 2,
+        { "Deep Bass", 15.0f, 0.0f, -10.0f, 18.0f, 2,
           { 1, 8, 1, 1, 1 }, { 0.15f, 0.10f, 0, 0, 0 }, { 15, 20, 0, 0, 0 }, { 12000, 11250, 0, 0, 0 },
           true, american, 500.0f, 1.2f, 0.0f, 0.30f, 5000.0f, 60.0f, 28.0f, 9000.0f, 1.8f },
         { "Studio Direct", 15.0f, 0.0f, -12.0f, 12.0f, 1,

diff --git a/tests/TestMain.cpp b/tests/TestMain.cpp
@@ -3053,6 +3053,9 @@ void testToneNames()
     CHECK (presetFromJson (R"({"name":"Old","params":{"amp_model":"brit plexi"}})", p, err) && (int) p.values[(size_t) P::ampModel] == choices::britPlexi, "an old Brit Plexi tone loads as the Brit 68");
     CHECK (presetFromJson (R"({"name":"Old","params":{"cab_model":"2x12 Blue"}})", p, err) && (int) p.values[(size_t) P::cabModel] == 1, "an old 2x12 Blue tone loads as the 2x12 Chime");
     CHECK (presetFromJson (R"({"name":"Old","params":{"drv_type":"Rodent Dist"}})", p, err) && (int) p.values[(size_t) P::drvType] == 4, "an old Rodent Dist tone loads as the Grit Dist");
+    CHECK (presetFromJson (R"({"name":"Old","params":{"amp_model":"Bass Station"}})", p, err) && (int) p.values[(size_t) P::ampModel] == 8, "an old Bass Station tone loads as the Deep Bass");
+    CHECK (presetFromJson (R"({"name":"Old","params":{"amp_model":"Chime Top"}})", p, err) && (int) p.values[(size_t) P::ampModel] == 2, "an old Chime Top tone loads as the Chime Bright");
+    CHECK (presetFromJson (R"({"name":"Old","params":{"drv_type":"Metal Box"}})", p, err) && (int) p.values[(size_t) P::drvType] == 6, "an old Metal Box tone loads as the Metal Dist");
     CHECK (presetFromJson (R"({"name":"Old","params":{"drv_type":"Blues Drive"}})", p, err) && (int) p.values[(size_t) P::drvType] == 3, "an old Blues Drive tone loads as the Blues Crunch");
     CHECK (presetFromJson (R"({"name":"Old","params":{"amp_model":"Brit 800"}})", p, err) && (int) p.values[(size_t) P::ampModel] == choices::brit800, "an old Brit 800 tone loads as the Brit 81");
     CHECK (presetFromJson (R"({"name":"Warm Crunch","category":"Essentials"})", p, err) && p.artist().isEmpty() && p.title() == "Warm Crunch" && p.credit().isEmpty(), "a plain tone is only its name");

diff --git a/src/dsp/Pedals.cpp b/src/dsp/Pedals.cpp
@@ -1261,7 +1261,7 @@ void DrivePedal::prepare (double sampleRate, int maxBlock)
     sr = sampleRate;
     // Every pedal is its circuit (Circuits.h). 8x below 64 kHz: the diodes and transistors make
     // harmonics far above the guitar, and at 4x they fold back as a digital grit the real pedals
-    // never had (the pedal lab measures it). The grit, the fuzz and the metal box clip hard
+    // never had (the pedal lab measures it). The grit, the fuzz and the metal dist clip hard
     // enough to need 16x: at 8x their fold-back sat 40 to 60 dB down, at 16x 61 to 75 dB.
     const int st = sampleRate < 64000.0 ? 3 : 2;
     os = std::make_unique<juce::dsp::Oversampling<float>> (1, (size_t) st, juce::dsp::Oversampling<float>::filterHalfBandPolyphaseIIR, true, false);
@@ -1291,7 +1291,7 @@ void DrivePedal::reset()
     boost.reset(); trebleBoost.reset(); blues.reset(); metal.reset();
     setPots (drive, tone, true); // a fresh start is already where the knobs are
     // A circuit starts with every capacitor empty and charges to where its bias holds it, and
-    // that charging comes out as a thump (-49 dB from the blues crunch and the metal box; the
+    // that charging comes out as a thump (-49 dB from the blues crunch and the metal dist; the
     // others start where they rest). Run those on silence for 10 ms first, which leaves under
     // -84 dB, as a real pedal is already powered when it is stepped on. Costs 0.3 to 0.7 ms.
     if (type == 3 || type == 6)

diff --git a/src/engine/Params.cpp b/src/engine/Params.cpp
@@ -57,15 +57,15 @@ namespace
 
         s.push_back (tog (P::drvOn, "drv_on", "Drive Pedal", false));
         s.push_back (pick (P::drvType, "drv_type", "Pedal Type",
-                           { "Clean Boost", "Treble Boost", "Green Drive", "Blues Crunch", "Grit Dist", "Big Fuzz", "Metal Box" }, 2));
+                           { "Clean Boost", "Treble Boost", "Green Drive", "Blues Crunch", "Grit Dist", "Big Fuzz", "Metal Dist" }, 2));
         s.push_back (knob (P::drvGain, "drv_gain", "Drive", 4.0f));
         s.push_back (knob (P::drvTone, "drv_tone", "Tone", 5.0f));
         s.push_back (knob (P::drvLevel, "drv_level", "Level", 5.0f));
 
         s.push_back (tog (P::ampOn, "amp_on", "Amp", true));
         s.push_back (pick (P::ampModel, "amp_model", "Amp Model",
-                           { "Glass Clean", "Tweed Edge", "Chime Top", "Brit 68", "Brit 81", "Redline Lead",
-                             "Modern High Gain", "Tight Metal", "Bass Station", "Studio Direct", "Neural Capture" }, 3));
+                           { "Glass Clean", "Tweed Edge", "Chime Bright", "Brit 68", "Brit 81", "Redline Lead",
+                             "Modern High Gain", "Tight Metal", "Deep Bass", "Studio Direct", "Neural Capture" }, 3));
         s.push_back (knob (P::ampGain, "amp_gain", "Gain", 5.0f));
         s.push_back (knob (P::ampBass, "amp_bass", "Bass", 5.0f));
         s.push_back (knob (P::ampMid, "amp_mid", "Mid", 5.0f));

diff --git a/src/engine/Presets.cpp b/src/engine/Presets.cpp
@@ -78,6 +78,7 @@ bool presetFromJson (const juce::String& json, Preset& out, juce::String& error)
                     { "Brit Plexi", "Brit 68" }, { "Brit 800", "Brit 81" }, { "Hot Rod Lead", "Redline Lead" },
                     // names before 0.1.7 (Update 2)
                     { "2x12 Blue", "2x12 Chime" }, { "Rodent Dist", "Grit Dist" }, { "Blues Drive", "Blues Crunch" },
+                    { "Bass Station", "Deep Bass" }, { "Metal Box", "Metal Dist" }, { "Chime Top", "Chime Bright" },
                 };
                 juce::String name = prop.value.toString();
                 for (const auto& [was, now] : renamed)

diff --git a/tests/PedalLab.cpp b/tests/PedalLab.cpp
@@ -68,7 +68,7 @@ std::unique_ptr<Original> makeOriginal (int type)
 
 const char* pedalName (int type)
 {
-    static const char* names[] = { "Clean Boost", "Treble Boost", "Green Drive", "Blues Crunch", "Grit Dist", "Big Fuzz", "Metal Box" };
+    static const char* names[] = { "Clean Boost", "Treble Boost", "Green Drive", "Blues Crunch", "Grit Dist", "Big Fuzz", "Metal Dist" };
     return names[std::clamp (type, 0, 6)];
 }
 

diff --git a/CHANGELOG.md b/CHANGELOG.md
@@ -14,6 +14,7 @@ Update 2. A player told us the distortion tones were too noisy. The hiss between
 - A feedback killer runs with the gate. A guitar near its amp can start to howl, one pure tone that only ever grows. It watches every narrow peak, and one that climbs 12 dB or more over about 300 ms, smoothly, with nothing else rising alongside it, gets a narrow notch that deepens to 30 dB while the tone keeps growing, up to three at once, and lets go 1.5 s after the tone is gone. Played notes, volume swells and chords are never taken for a howl: nothing was touched across four minutes of real guitar takes. A howl growing 50 dB a second came down about 30 dB. It goes off with the gate switch.
 - The Pitch pedal's Shift mode is rebuilt. It finds the period of the note you play and only ever jumps by whole periods, so every splice lands on the same part of the wave. The old shifter smeared a note into warbling sidebands about 20 dB below the note itself; on real guitar notes the new one keeps the energy on the shifted harmonics 30 to 40 dB cleaner, and chords are 20 dB cleaner. Works at every sample rate.
 - Tone names no longer name any artist, band or song. The 107 tones that did are now named for the sound they make (for example "Dark Singing Lead", "Fast Dry Thrash Rhythm") and sit with the other tones by genre. Nothing about how they sound changed. The "Inspired By" list is gone from the tone browser and the website. A tone you had marked as a favourite under its old name needs marking again.
+- A few amp, pedal and cabinet names sounded too much like real products, so they are renamed: 2x12 Blue is now 2x12 Chime, Rodent Dist is Grit Dist, Blues Drive is Blues Crunch, Bass Station is Deep Bass, Metal Box is Metal Dist and Chime Top is Chime Bright. Tones you saved with the old names still load.
 - The weekly player count is now off until you say yes. Riffhouse asks once on first run; Settings, Player count changes your answer any time. Terms, privacy and credits are on riffhouse.in/legal.html and the installer shows a short notice first.
 - Settings has an update channel: **Stable** (tested releases only, the default) or **Beta** (test builds a few days early, rough edges possible). It replaces the old "get new versions early" switch, and anyone who had that on is on Beta. Switching to Stable never downgrades: a newer Beta stays until Stable catches up.
 - Settings has one quiet link to the Riffhouse page on GitHub, for anyone who wants to star it.
